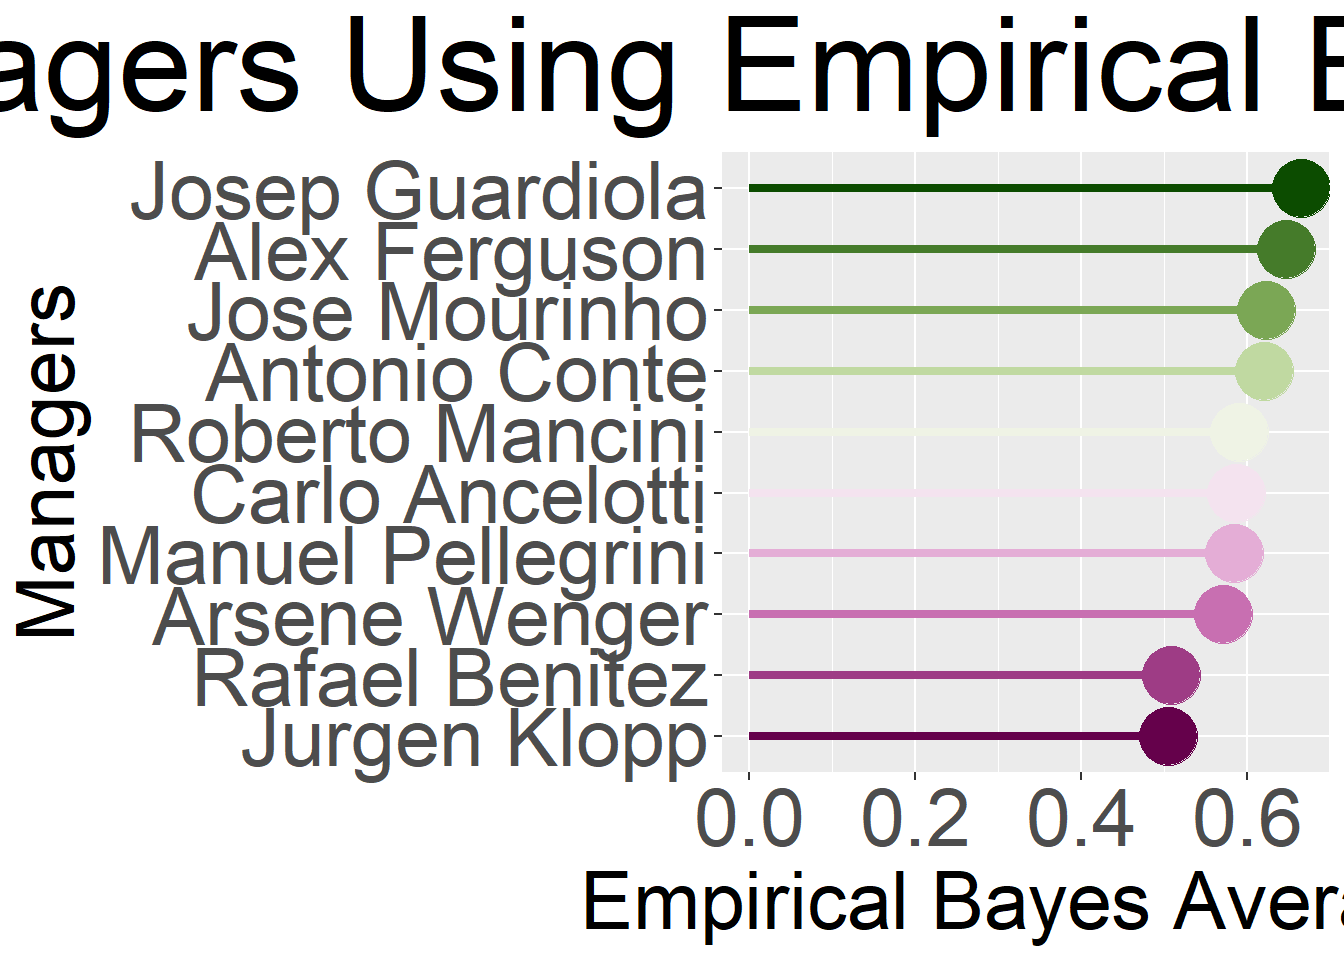
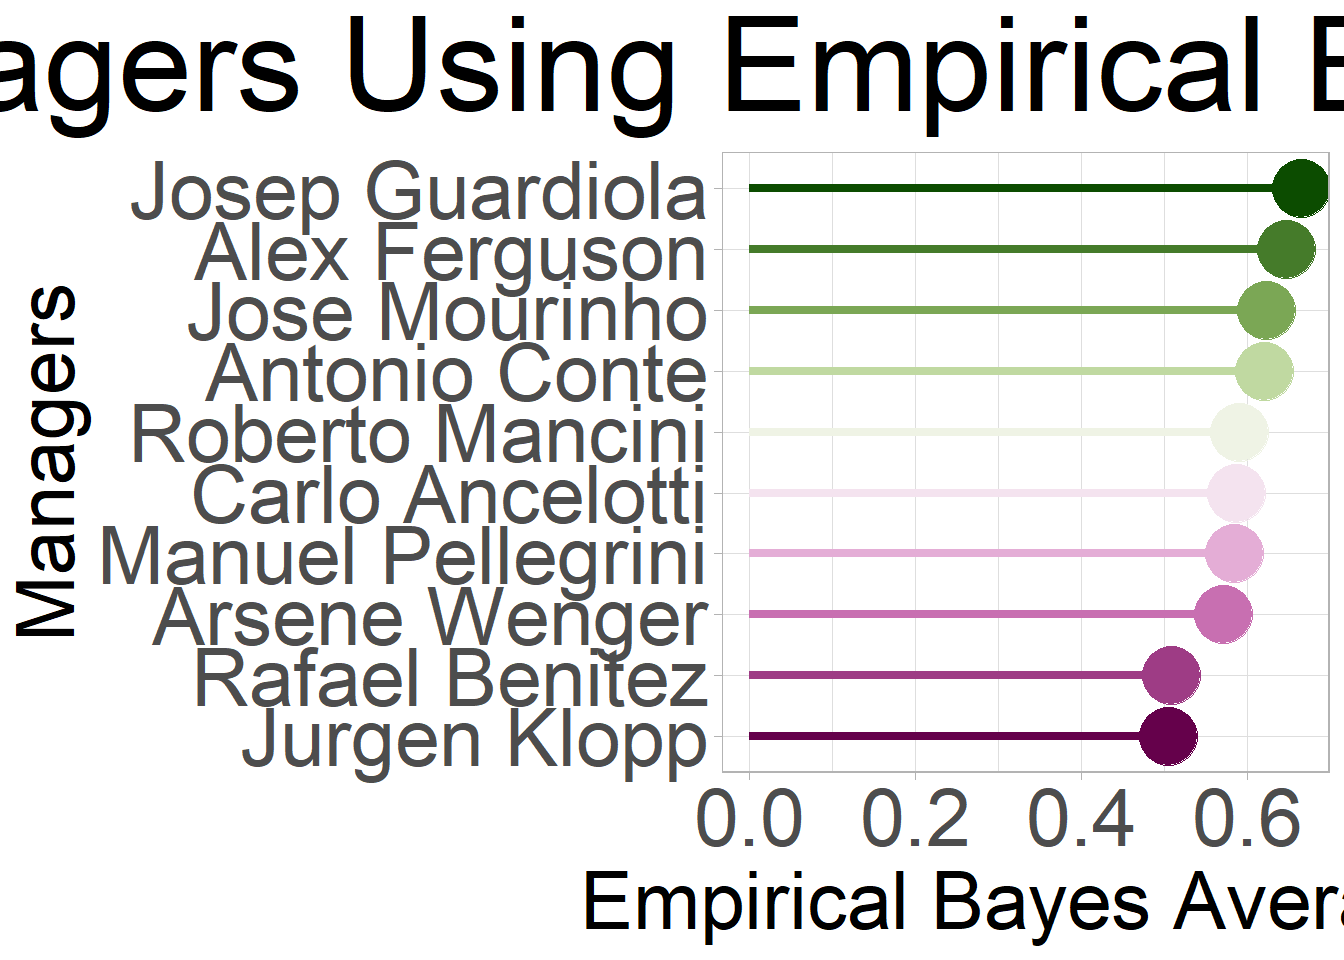
theme changed

diff --git a/content/blog/English-Premier-League-Ranking-Series/03-Ranking-of-Managers-Using-Empirical-Bayes/Empirical-Bayes-Estimation.md b/content/blog/English-Premier-League-Ranking-Series/03-Ranking-of-Managers-Using-Empirical-Bayes/Empirical-Bayes-Estimation.md
@@ -154,13 +154,13 @@ To start, we will analyze the raw winning averages of the managers by observing 
 ```r
 epl%>%
   dplyr::select(managers, total_games_managed, games_won, games_drawn, games_lost)%>%
-  #pivot_longer(cols = starts_with("game"), names_to = "outcome", values_to = "games")%>%
   mutate(average = games_won/total_games_managed)%>%
   ggplot(aes(average)) + 
   geom_histogram(binwidth = 0.1, fill="pink") + 
   labs(x = "Winning Averages",
        y = "Counts",
        title = "Distribution of EPL Managers' Winning Average from 1992 to 2018") +
+  theme_light() +
   theme(plot.title = element_text(hjust = 0.5, size = 45),
         axis.title = element_text(size = 30),
         axis.text = element_text(size = 30))
@@ -415,9 +415,10 @@ epl %>%
   labs(x = "Empirical Bayes Average", 
        y = "Managers",
        title = "Top 10 Managers Using Empirical Bayes from 1992 to 2018") +
+  theme_light() +
   theme(plot.title = element_text(hjust = 0.5, size = 50),
         axis.title = element_text(size = 30),
-        axis.text = element_text(size = 30))
+        axis.text = element_text(size = 30)) 
 ```
 
 {{< /panel >}}
@@ -464,6 +465,7 @@ epl %>%
   labs(x = "Empirical Bayes Average", 
        y = "Managers",
        title = "Bottom 10 Managers Using Empirical Bayes from 1992 to 2018") +
+  theme_light() +
   theme(plot.title = element_text(hjust = 0.5, size = 50),
         axis.title = element_text(size = 30),
         axis.text = element_text(size = 30))
